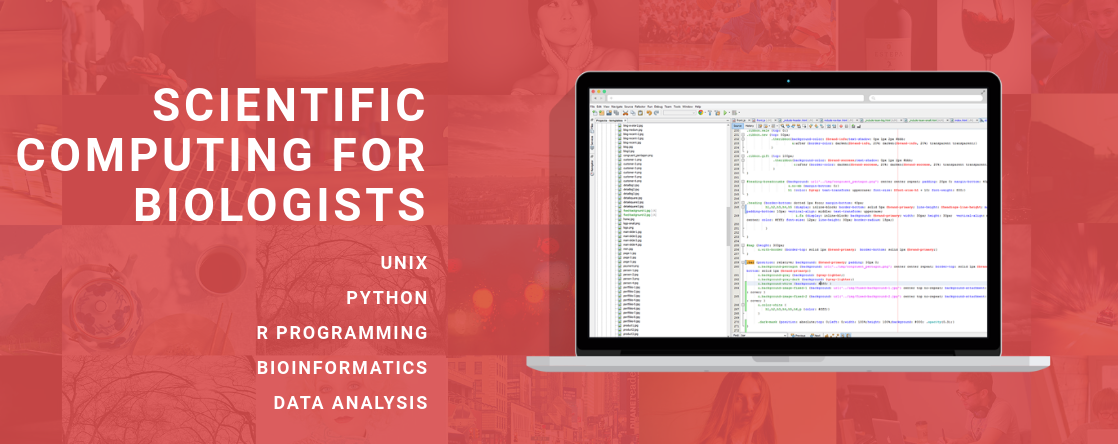
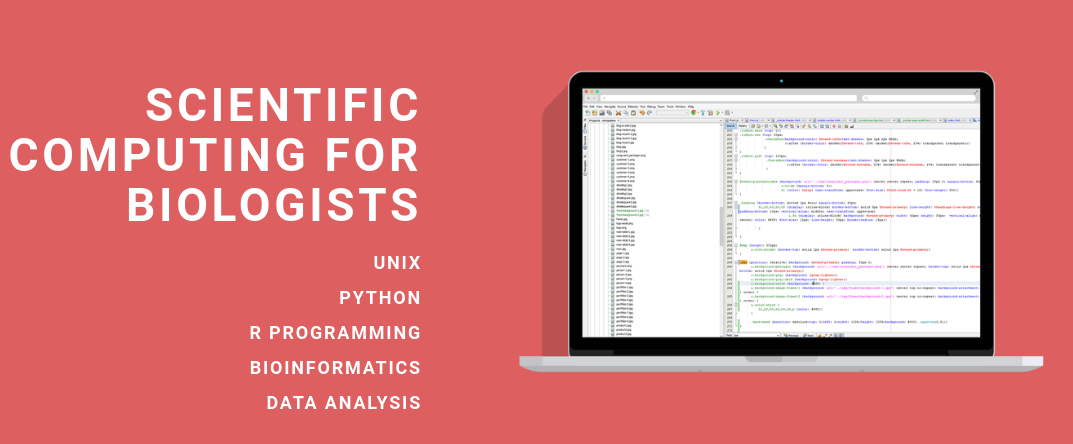
social share

diff --git a/docs/index.html b/docs/index.html
@@ -75,7 +75,7 @@
   
   
   
-    <meta property="og:image:width" content="1118">
+    <meta property="og:image:width" content="1073">
     <meta property="og:image:height" content="444">
   
   
@@ -346,10 +346,10 @@
                     <div class="box-simple">
                         
                             <div class="icon">
-                                <i class="fas fa-chart-line"></i>
+                                <i class="fab fa-r-project"></i>
                             </div>
                         
-                        <h3>Biostatistics</h3>
+                        <h3>R Programming</h3>
                         <p></p>
                     </div>
                 </div>
@@ -366,10 +366,10 @@
                     <div class="box-simple">
                         
                             <div class="icon">
-                                <i class="fab fa-r-project"></i>
+                                <i class="fas fa-chart-line"></i>
                             </div>
                         
-                        <h3>R Programming</h3>
+                        <h3>Biostatistics</h3>
                         <p></p>
                     </div>
                 </div>

diff --git a/docs/course_plan/index.html b/docs/course_plan/index.html
@@ -13,7 +13,7 @@
   
   
   
-  <meta name="keywords" content="python, r-programming, bioinformatics, statistics, data-analysis, ISCB, How do I, questions, what if">
+  <meta name="keywords" content="python, r-programming, bioinformatics, statistics, data-analysis, FAQ, How do I, questions, what if">
   
   
   <meta name="description" content="Course Overview">
@@ -75,7 +75,7 @@
   
   
   
-    <meta property="og:image:width" content="1118">
+    <meta property="og:image:width" content="1073">
     <meta property="og:image:height" content="444">
   
   

diff --git a/docs/404.html b/docs/404.html
@@ -75,7 +75,7 @@
   
   
   
-    <meta property="og:image:width" content="1118">
+    <meta property="og:image:width" content="1073">
     <meta property="og:image:height" content="444">
   
   

diff --git a/docs/ascb/index.html b/docs/ascb/index.html
@@ -75,7 +75,7 @@
   
   
   
-    <meta property="og:image:width" content="1118">
+    <meta property="og:image:width" content="1073">
     <meta property="og:image:height" content="444">
   
   

diff --git a/docs/blog/index.html b/docs/blog/index.html
@@ -75,7 +75,7 @@
   
   
   
-    <meta property="og:image:width" content="1118">
+    <meta property="og:image:width" content="1073">
     <meta property="og:image:height" content="444">
   
   

diff --git a/docs/categories/index.html b/docs/categories/index.html
@@ -75,7 +75,7 @@
   
   
   
-    <meta property="og:image:width" content="1118">
+    <meta property="og:image:width" content="1073">
     <meta property="og:image:height" content="444">
   
   

diff --git a/docs/categories/lorem/index.html b/docs/categories/lorem/index.html
@@ -75,7 +75,7 @@
   
   
   
-    <meta property="og:image:width" content="1118">
+    <meta property="og:image:width" content="1073">
     <meta property="og:image:height" content="444">
   
   

diff --git a/docs/categories/programming/index.html b/docs/categories/programming/index.html
@@ -75,7 +75,7 @@
   
   
   
-    <meta property="og:image:width" content="1118">
+    <meta property="og:image:width" content="1073">
     <meta property="og:image:height" content="444">
   
   

diff --git a/docs/categories/pseudo/index.html b/docs/categories/pseudo/index.html
@@ -75,7 +75,7 @@
   
   
   
-    <meta property="og:image:width" content="1118">
+    <meta property="og:image:width" content="1073">
     <meta property="og:image:height" content="444">
   
   

diff --git a/docs/categories/starting/index.html b/docs/categories/starting/index.html
@@ -75,7 +75,7 @@
   
   
   
-    <meta property="og:image:width" content="1118">
+    <meta property="og:image:width" content="1073">
     <meta property="og:image:height" content="444">
   
   

diff --git a/docs/contact/index.html b/docs/contact/index.html
@@ -75,7 +75,7 @@
   
   
   
-    <meta property="og:image:width" content="1118">
+    <meta property="og:image:width" content="1073">
     <meta property="og:image:height" content="444">
   
   

diff --git a/docs/faq/index.html b/docs/faq/index.html
@@ -75,7 +75,7 @@
   
   
   
-    <meta property="og:image:width" content="1118">
+    <meta property="og:image:width" content="1073">
     <meta property="og:image:height" content="444">
   
   
